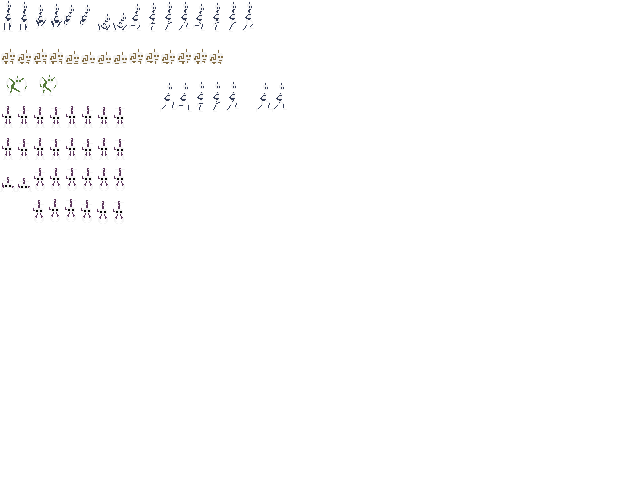
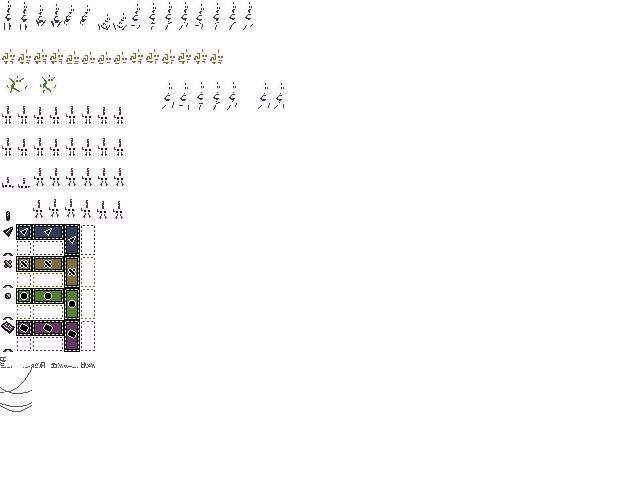
drew some decorations, plus some other things i forgot to commit earlier

diff --git a/src/game/entities.py b/src/game/entities.py
@@ -558,6 +558,75 @@ class MovingBlockEntity(BlockEntity):
         super().update()
 
 
+class ToggleBlock(BlockEntity):
+
+    def __init__(self, x, y, w, h, toggle_idx):
+        BlockEntity.__init__(self, x, y, w, h)
+        self._toggle_idx = toggle_idx
+        self._is_solid = True
+
+    def get_toggle_idx(self):
+        return self._toggle_idx
+
+    def is_solid(self):
+        return self._is_solid
+
+    def set_solid(self, val):
+        self._is_solid = val
+        for c in self.all_colliders(solid=True):
+            c.set_enabled(val)
+
+    def get_main_model(self):
+        w, h = self.get_size()
+        return spriteref.object_sheet().get_toggle_block_sprite(self.get_toggle_idx(), w, h, self.is_solid())
+
+
+class ToggleBlockKeyEntity(Entity):
+
+    @staticmethod
+    def make_at_cell(grid_x, grid_y, toggle_idx):
+        cs = gs.get_instance().cell_size
+        return ToggleBlockKeyEntity(cs * grid_x + cs // 4, cs * grid_y, toggle_idx)
+
+    def __init__(self, x, y, toggle_idx):
+        cs = gs.get_instance().cell_size
+        Entity.__init__(self, x, y, cs // 2, cs)
+        self._toggle_idx = toggle_idx
+        self._icon_sprite = None
+        self._base_sprite = None
+
+        self._bob_height_min = 4
+        self._bob_height_max = 16
+        self._bob_tick_period = 30
+        self._bob_tick_count = int(random.random() * self._bob_tick_period)
+
+    def all_sprites(self):
+        yield self._icon_sprite
+        yield self._base_sprite
+
+    def get_toggle_idx(self):
+        return self._toggle_idx
+
+    def update(self):
+        rect = self.get_rect()
+        if self._icon_sprite is None:
+            self._icon_sprite = sprites.ImageSprite.new_sprite(spriteref.ENTITY_LAYER, depth=-5)
+        key_model = spriteref.object_sheet().toggle_block_icons[self.get_toggle_idx()]
+        bob_prog = math.cos(2 * 3.141529 * self._bob_tick_count / self._bob_tick_period)
+        bob_height = int(self._bob_height_min + (self._bob_height_max - self._bob_height_min) * bob_prog)
+        self._icon_sprite = self._icon_sprite.update(new_model=key_model,
+                                                     new_x=rect[0] + rect[2] // 2 - key_model.width() // 2,
+                                                     new_y=rect[1] - bob_height - key_model.height() // 2)
+        self._bob_tick_count += 1
+
+        if self._base_sprite is None:
+            self._base_sprite = sprites.ImageSprite.new_sprite(spriteref.ENTITY_LAYER, depth=-3)
+        base_model = spriteref.object_sheet().toggle_block_bases[self.get_toggle_idx()]
+        self._base_sprite = self._base_sprite.update(new_model=base_model,
+                                                     new_x=rect[0] + rect[2] // 2 - base_model.width() // 2,
+                                                     new_y=rect[1] + rect[3] - base_model.height())
+
+
 class StartBlock(BlockEntity):
 
     def __init__(self, x, y, w, h, player_type, facing_dir=1, color_id=-1):

diff --git a/src/game/spriteref.py b/src/game/spriteref.py
@@ -107,6 +107,10 @@ class _ObjectSheet(spritesheets.SpriteSheet):
             const.PLAYER_FLYING: self.player_d
         }
 
+        self.toggle_block_bases = []
+        self.toggle_block_icons = []
+        self._toggle_blocks = {}
+
     def get_player_sprites(self, player_id, player_state) -> typing.List[sprites.ImageModel]:
         if player_id not in self._player_id_to_sprite_lookup:
             raise ValueError("unrecognized player id: {}".format(player_id))
@@ -125,6 +129,14 @@ class _ObjectSheet(spritesheets.SpriteSheet):
             return None
         else:
             return spr_list[frame % len(spr_list)]
+
+    def get_toggle_block_sprite(self, idx, w, h, solid):
+        key = (idx, w, h, solid)
+        if key in self._toggle_blocks:
+            return key
+        else:
+            print("WARN: no sprite for toggle block: {}".format(key))
+            return None
 
     def draw_to_atlas(self, atlas, sheet, start_pos=(0, 0)):
         super().draw_to_atlas(atlas, sheet, start_pos=start_pos)
@@ -148,6 +160,21 @@ class _ObjectSheet(spritesheets.SpriteSheet):
         self.player_d[PlayerStates.WALKING] = [_img(0 + i * 16, 128, 16, 32, offs=start_pos) for i in range(0, 8)]
         self.player_d[PlayerStates.CROUCH_IDLE] = [_img(0 + i * 16, 176, 16, 16, offs=start_pos) for i in range(0, 2)]
         self.player_d[PlayerStates.AIRBORNE] = [_img(32 + i * 16, 160, 16, 32, offs=start_pos) for i in range(0, 6)]
+
+        self.toggle_block_bases = []
+        self.toggle_block_icons = []
+        self._toggle_blocks = {}  # (idx, w, h, solid) -> ImageModel
+
+        tb_xy = (0, 224)
+        for i in range(0, 4):
+            self.toggle_block_icons.append(_img(tb_xy[0], tb_xy[1] + i * 32, 16, 16, offs=start_pos))
+            self.toggle_block_bases.append(_img(tb_xy[0], tb_xy[1] + 16 + i * 32, 16, 16, offs=start_pos))
+            self._toggle_blocks[(i, 16, 16, True)] = _img(tb_xy[0] + 16, tb_xy[1] + 32 * i, 16, 16, offs=start_pos)
+            self._toggle_blocks[(i, 32, 16, True)] = _img(tb_xy[0] + 32, tb_xy[1] + 32 * i, 32, 16, offs=start_pos)
+            self._toggle_blocks[(i, 16, 32, True)] = _img(tb_xy[0] + 64, tb_xy[1] + 32 * i, 16, 32, offs=start_pos)
+            self._toggle_blocks[(i, 16, 16, False)] = _img(tb_xy[0] + 16, tb_xy[1] + 16 + 32 * i, 16, 16, offs=start_pos)
+            self._toggle_blocks[(i, 32, 16, False)] = _img(tb_xy[0] + 32, tb_xy[1] + 16 + 32 * i, 32, 16, offs=start_pos)
+            self._toggle_blocks[(i, 16, 32, False)] = _img(tb_xy[0] + 80, tb_xy[1] + 32 * i, 16, 32, offs=start_pos)
 
 
 class _BlockSheet(spritesheets.SpriteSheet):
